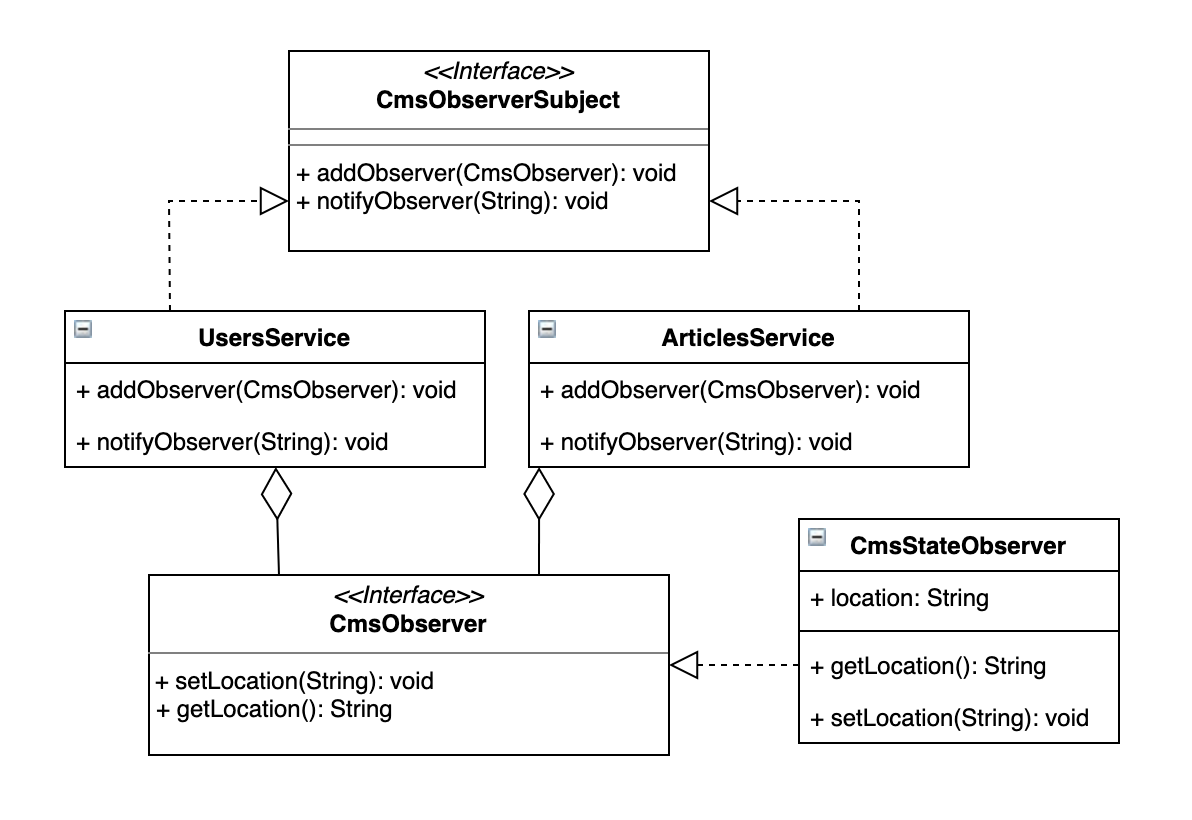
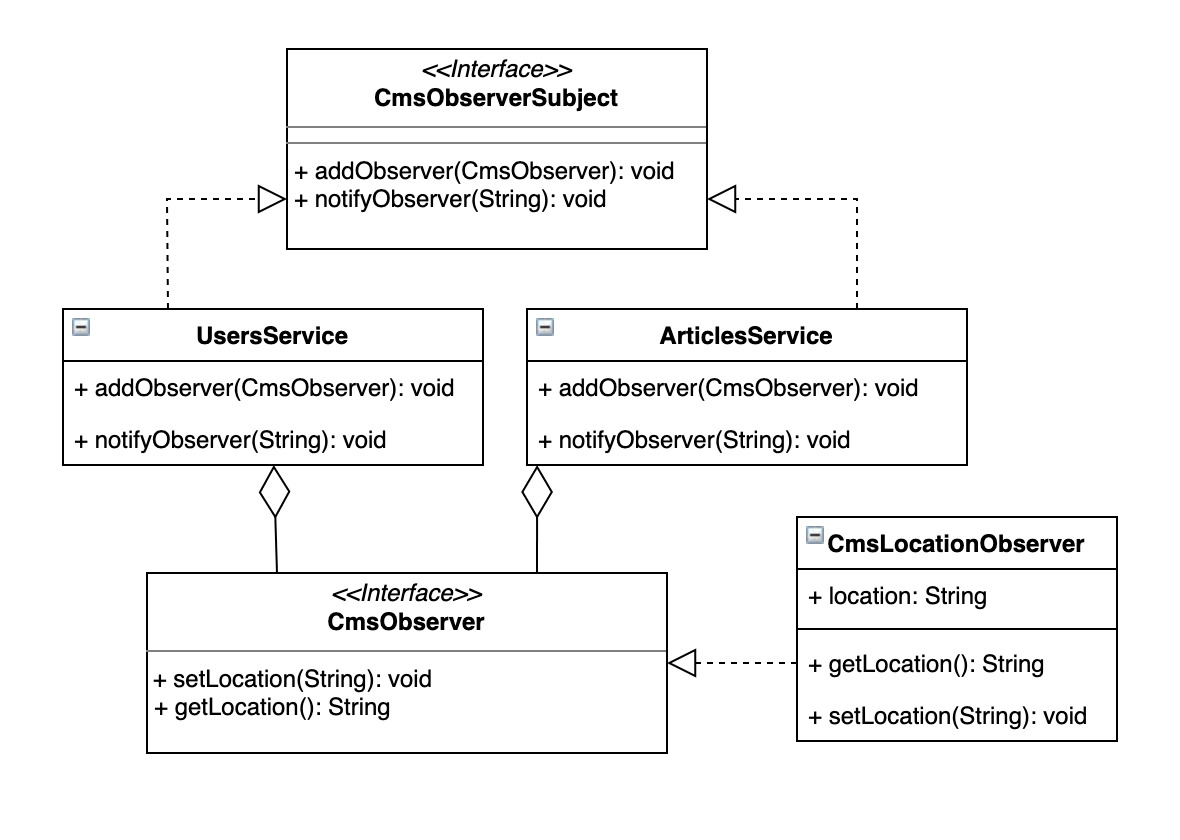
updated observer pattern

diff --git a/readme.md b/readme.md
@@ -1,0 +1,193 @@
+# Welcome to Rohith CMS!
+
+# Running Instructions:
+
+1.) After running the project, you should see the welcome banner as shown below
+![enter image description here](https://github.com/Rohith191/FinalProject/blob/main/docs/NotLoggedin.PNG?raw=true)
+2.) Use the *login* command to enter into the CMS.
+![enter image description here](https://github.com/Rohith191/FinalProject/blob/main/docs/LoggedIn.PNG?raw=true)
+3.) Use the *articles* command to enter into articles location in CMS. This command should show you the commands for 4 crud operations.
+![enter image description here](https://github.com/Rohith191/FinalProject/blob/main/docs/Articles.PNG?raw=true)
+
+4.) Use the *list* command to show the list of articles available in CMS.
+![enter image description here](https://github.com/Rohith191/FinalProject/blob/main/docs/ListArticles.PNG?raw=true)
+5.) Use the *new* command to create new article
+![enter image description here](https://github.com/Rohith191/FinalProject/blob/main/docs/NewArticle.PNG?raw=true)
+6.) Use the *delete* command to delete existing article
+![enter image description here](https://github.com/Rohith191/FinalProject/blob/main/docs/DeleteArticle.PNG?raw=true)
+7.) Use the *edit* command to edit/update an existing article
+![enter image description here](https://github.com/Rohith191/FinalProject/blob/main/docs/EditArticle.PNG?raw=true)
+8.) Use the *logoff* command to sign out of the current user "session".
+![enter image description here](https://github.com/Rohith191/FinalProject/blob/main/docs/Logoff.PNG?raw=true)
+9.) Use the *exit* command to quit CMS. 
+![enter image description here](https://github.com/Rohith191/FinalProject/blob/main/docs/Exit.PNG?raw=true)
+
+
+
+# Project File Structure
+The project contains 5 packages as listed below:
+
+ - *com.rohit.cms.articles* 
+		 - contains articles related logic
+ - *com.rohit.cms.main*
+		 - contains entry point and classes that allow cms to run
+ - *com.rohit.cms.models*
+		 - contains pojo classes and interfaces
+ - *com.rohit.cms.tests*
+		 - contains unit tests for the project
+ - *com.rohit.cms.user*
+		 - contains user related logic like login/logoff commands and usersService
+
+# Design Patterns
+There are 4 design patterns in the code base. The following section describes the patterns, related files and UML diagram of the pattern.
+
+| File	| Package	|
+|-----------------|-----------------------|
+| CmsCommand.java	|	com.rohit.cms.models	|
+| CmsCommandInvoker.java	|	com.rohit.cms.main	|
+| EditArticleCommand.java	|	com.rohit.cms.articles	|
+| DeleteArticleCommand.java	|	com.rohit.cms.articles	|
+| ListArticlesCommand.java	|	com.rohit.cms.articles	|
+| NewArticleCommand.java	|	com.rohit.cms.articles	|
+| ArticlesService.java	|	com.rohit.cms.articles	|
+| LoginCommand.java	|	com.rohit.cms.user	|
+| LogoffCommand.java	|	com.rohit.cms.user	|
+| UserService.java	|	com.rohit.cms.user	|
+
+  
+StackEdit stores your files in your browser, which means all your files are automatically saved locally and are accessible **offline!**
+
+## Create files and folders
+
+The file explorer is accessible using the button in left corner of the navigation bar. You can create a new file by clicking the **New file** button in the file explorer. You can also create folders by clicking the **New folder** button.
+
+## Switch to another file
+
+All your files and folders are presented as a tree in the file explorer. You can switch from one to another by clicking a file in the tree.
+
+## Rename a file
+
+You can rename the current file by clicking the file name in the navigation bar or by clicking the **Rename** button in the file explorer.
+
+## Delete a file
+
+You can delete the current file by clicking the **Remove** button in the file explorer. The file will be moved into the **Trash** folder and automatically deleted after 7 days of inactivity.
+
+## Export a file
+
+You can export the current file by clicking **Export to disk** in the menu. You can choose to export the file as plain Markdown, as HTML using a Handlebars template or as a PDF.
+
+
+# Synchronization
+
+Synchronization is one of the biggest features of StackEdit. It enables you to synchronize any file in your workspace with other files stored in your **Google Drive**, your **Dropbox** and your **GitHub** accounts. This allows you to keep writing on other devices, collaborate with people you share the file with, integrate easily into your workflow... The synchronization mechanism takes place every minute in the background, downloading, merging, and uploading file modifications.
+
+There are two types of synchronization and they can complement each other:
+
+- The workspace synchronization will sync all your files, folders and settings automatically. This will allow you to fetch your workspace on any other device.
+	> To start syncing your workspace, just sign in with Google in the menu.
+
+- The file synchronization will keep one file of the workspace synced with one or multiple files in **Google Drive**, **Dropbox** or **GitHub**.
+	> Before starting to sync files, you must link an account in the **Synchronize** sub-menu.
+
+## Open a file
+
+You can open a file from **Google Drive**, **Dropbox** or **GitHub** by opening the **Synchronize** sub-menu and clicking **Open from**. Once opened in the workspace, any modification in the file will be automatically synced.
+
+## Save a file
+
+You can save any file of the workspace to **Google Drive**, **Dropbox** or **GitHub** by opening the **Synchronize** sub-menu and clicking **Save on**. Even if a file in the workspace is already synced, you can save it to another location. StackEdit can sync one file with multiple locations and accounts.
+
+## Synchronize a file
+
+Once your file is linked to a synchronized location, StackEdit will periodically synchronize it by downloading/uploading any modification. A merge will be performed if necessary and conflicts will be resolved.
+
+If you just have modified your file and you want to force syncing, click the **Synchronize now** button in the navigation bar.
+
+> **Note:** The **Synchronize now** button is disabled if you have no file to synchronize.
+
+## Manage file synchronization
+
+Since one file can be synced with multiple locations, you can list and manage synchronized locations by clicking **File synchronization** in the **Synchronize** sub-menu. This allows you to list and remove synchronized locations that are linked to your file.
+
+
+# Publication
+
+Publishing in StackEdit makes it simple for you to publish online your files. Once you're happy with a file, you can publish it to different hosting platforms like **Blogger**, **Dropbox**, **Gist**, **GitHub**, **Google Drive**, **WordPress** and **Zendesk**. With [Handlebars templates](http://handlebarsjs.com/), you have full control over what you export.
+
+> Before starting to publish, you must link an account in the **Publish** sub-menu.
+
+## Publish a File
+
+You can publish your file by opening the **Publish** sub-menu and by clicking **Publish to**. For some locations, you can choose between the following formats:
+
+- Markdown: publish the Markdown text on a website that can interpret it (**GitHub** for instance),
+- HTML: publish the file converted to HTML via a Handlebars template (on a blog for example).
+
+## Update a publication
+
+After publishing, StackEdit keeps your file linked to that publication which makes it easy for you to re-publish it. Once you have modified your file and you want to update your publication, click on the **Publish now** button in the navigation bar.
+
+> **Note:** The **Publish now** button is disabled if your file has not been published yet.
+
+## Manage file publication
+
+Since one file can be published to multiple locations, you can list and manage publish locations by clicking **File publication** in the **Publish** sub-menu. This allows you to list and remove publication locations that are linked to your file.
+
+
+# Markdown extensions
+
+StackEdit extends the standard Markdown syntax by adding extra **Markdown extensions**, providing you with some nice features.
+
+> **ProTip:** You can disable any **Markdown extension** in the **File properties** dialog.
+
+
+## SmartyPants
+
+SmartyPants converts ASCII punctuation characters into "smart" typographic punctuation HTML entities. For example:
+
+|                |ASCII                          |HTML                         |
+|----------------|-------------------------------|-----------------------------|
+|Single backticks|`'Isn't this fun?'`            |'Isn't this fun?'            |
+|Quotes          |`"Isn't this fun?"`            |"Isn't this fun?"            |
+|Dashes          |`-- is en-dash, --- is em-dash`|-- is en-dash, --- is em-dash|
+
+
+## KaTeX
+
+You can render LaTeX mathematical expressions using [KaTeX](https://khan.github.io/KaTeX/):
+
+The *Gamma function* satisfying $\Gamma(n) = (n-1)!\quad\forall n\in\mathbb N$ is via the Euler integral
+
+$$
+\Gamma(z) = \int_0^\infty t^{z-1}e^{-t}dt\,.
+$$
+
+> You can find more information about **LaTeX** mathematical expressions [here](http://meta.math.stackexchange.com/questions/5020/mathjax-basic-tutorial-and-quick-reference).
+
+
+## UML diagrams
+
+You can render UML diagrams using [Mermaid](https://mermaidjs.github.io/). For example, this will produce a sequence diagram:
+
+```mermaid
+sequenceDiagram
+Alice ->> Bob: Hello Bob, how are you?
+Bob-->>John: How about you John?
+Bob--x Alice: I am good thanks!
+Bob-x John: I am good thanks!
+Note right of John: Bob thinks a long<br/>long time, so long<br/>that the text does<br/>not fit on a row.
+
+Bob-->Alice: Checking with John...
+Alice->John: Yes... John, how are you?
+```
+
+And this will produce a flow chart:
+
+```mermaid
+graph LR
+A[Square Rect] -- Link text --> B((Circle))
+A --> C(Round Rect)
+B --> D{Rhombus}
+C --> D
+```
